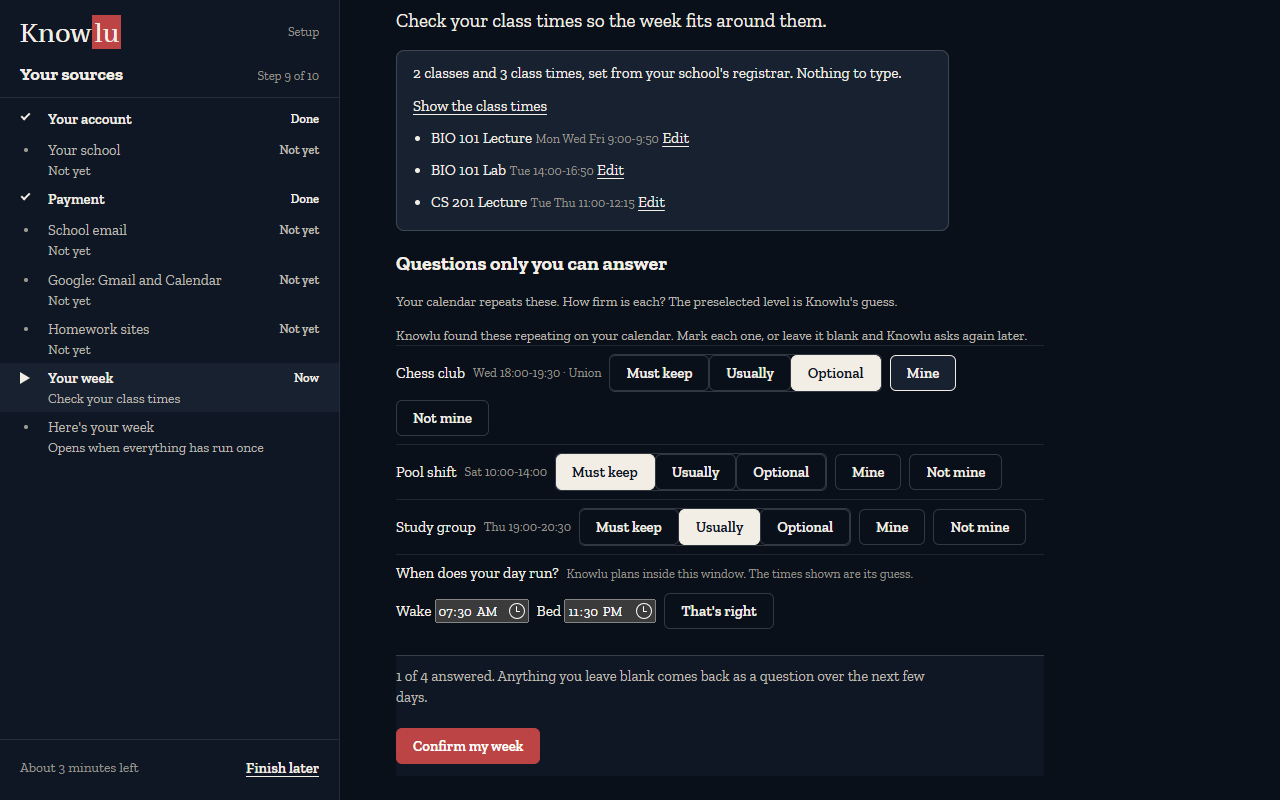
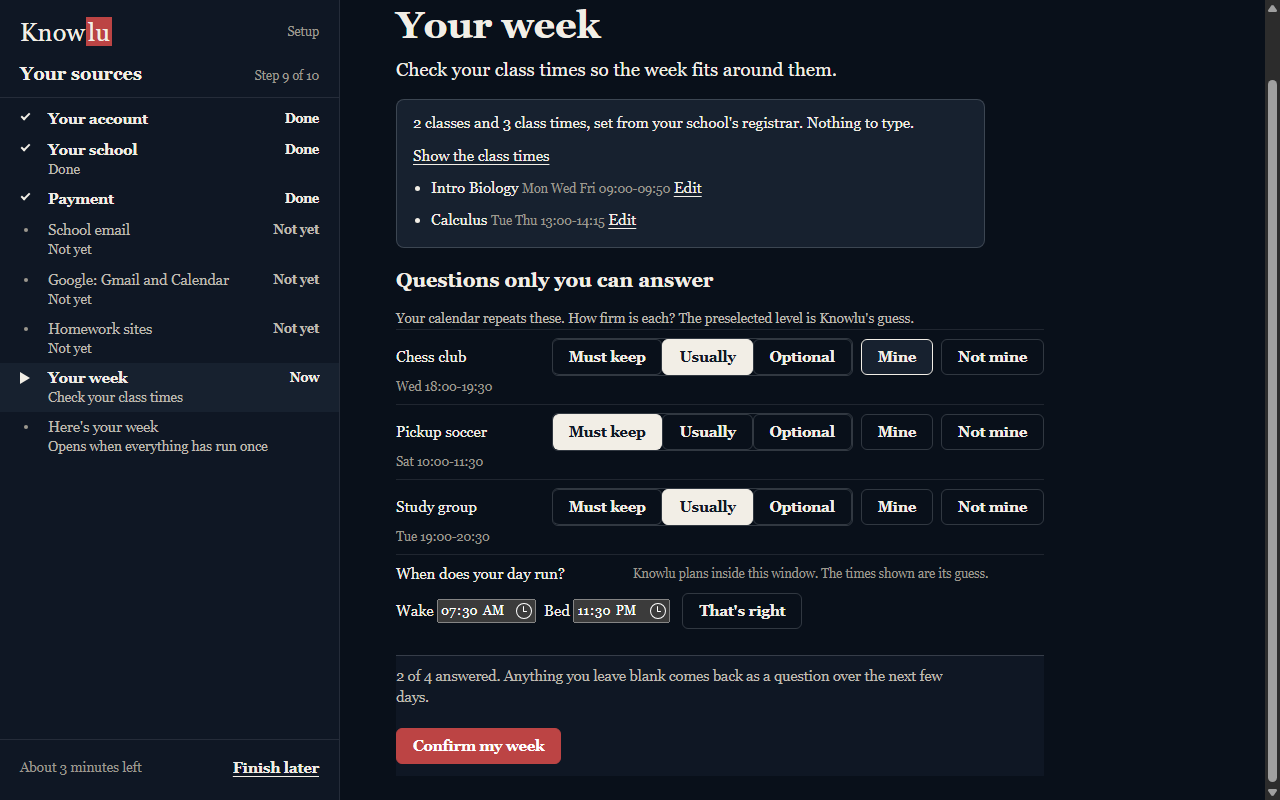
fix(o3 F11p3/F11p4): every day-window entry shown and sent, That's right sets, blank window not counted, firmness press is Mine, named controls, one intro, row layout; shots
Claude-Session: https://claude.ai/code/session_01EtveU7wxFVygY3Msga61qk

diff --git a/app/static/onboarding.js b/app/static/onboarding.js
@@ -630,7 +630,7 @@
   }
   function propHtml(p) {
     return '<div class="ob-prop" data-key="' + esc(p.source_uid) + '" data-answer="" data-level="' + esc(p.level || "soft") + '"><span class="a">' + esc(p.title) + '</span> <span class="su-dim">' + esc(p.when || "") + (p.where ? " · " + esc(p.where) : "") + '</span> ' +
-      firmnessHtml10(p.level) + ' <button class="b su-btn" type="button" data-act10="mine" aria-pressed="false">Mine</button> <button class="b su-btn" type="button" data-act10="not" aria-pressed="false">Not mine</button></div>';
+      '<span class="ob-ctl">' + firmnessHtml10(p.level, p.title) + ' <button class="b su-btn" type="button" data-act10="mine" aria-pressed="false">Mine</button> <button class="b su-btn" type="button" data-act10="not" aria-pressed="false">Not mine</button></span></div>';
   }
   // The pure helpers (F11p3): the summary line, the proposal split, the firmness control, the confirm object, the bar's count.
   function summaryLine10(st) {
@@ -642,28 +642,32 @@
     var ps = (r && r.proposals) || [];
     return { events: ps.filter(function (p) { return !p.window; }), window: ps.filter(function (p) { return p.window; })[0] || null };
   }
-  function firmnessHtml10(level) {
+  function firmnessHtml10(level, title) {
     var on = LEVELS10.some(function (l) { return l[0] === level; }) ? level : "soft";
-    return '<span class="ob-seg" role="group" aria-label="How firm">' + LEVELS10.map(function (l) {
+    return '<span class="ob-seg" role="group" aria-label="How firm is ' + esc(title || "") + '">' + LEVELS10.map(function (l) {
       return '<button class="b su-btn" type="button" data-level="' + l[0] + '" aria-pressed="' + (l[0] === on) + '">' + l[1] + '</button>';
     }).join("") + '</span>';
   }
   function windowFields10(p) {
-    var m = p && p.meets && p.meets[0];
-    return { start: (m && m.start) || "", end: (m && m.end) || "" };
+    var ms = (p && p.meets) || [], m = ms[0], f = { start: (m && m.start) || "", end: (m && m.end) || "" };
+    if (ms.length > 1) { f.entries = ms.map(function (x) { return { days: x.days, start: x.start || "", end: x.end || "" }; }); }
+    return f;
   }
-  // The `window` string for commitments_confirm, or null: unanswered or a blank time sends no key.
+  function winEntries10(win) { return win.entries || [{ start: win.start, end: win.end }]; }
+  function winSet10(win) { return !!win && winEntries10(win).every(function (e) { return e.start && e.end; }); }
+  // The `window` string for commitments_confirm, or null: unanswered or any blank time sends no key.
   function windowArg10(p, win) {
-    if (!win || !win.answered || !win.start || !win.end) { return null; }
-    var f = windowFields10(p);
-    if (p && p.meets && f.start === win.start && f.end === win.end) { return JSON.stringify(p.meets); }
-    var days = (p && p.meets && p.meets[0] && p.meets[0].days) || ["mon", "tue", "wed", "thu", "fri", "sat", "sun"];
-    return JSON.stringify([{ days: days, start: win.start, end: win.end }]);
+    if (!win || !win.answered || !winSet10(win)) { return null; }
+    var es = winEntries10(win), ms = (p && p.meets) || [];
+    if (!ms.length) { return JSON.stringify([{ days: ["mon", "tue", "wed", "thu", "fri", "sat", "sun"], start: es[0].start, end: es[0].end }]); }
+    var same = ms.every(function (m, i) { return !es[i] || (es[i].start === m.start && es[i].end === m.end); });
+    if (same) { return JSON.stringify(ms); }
+    return JSON.stringify(ms.map(function (m, i) { return es[i] ? { days: m.days, start: es[i].start, end: es[i].end } : m; }));
   }
   function confirmArg10(rows, proposal, win) {
     var mine = [], notMine = [];
     rows.forEach(function (r) {
-      if (r.answer === "mine") { mine.push({ source_uid: r.key, level: r.level }); } else if (r.answer === "not") { notMine.push(r.key); }
+      if (r.answer !== "not" && (r.answer === "mine" || r.picked)) { mine.push({ source_uid: r.key, level: r.level }); } else if (r.answer === "not") { notMine.push(r.key); }
     });
     var out = { mine: mine, not_mine: notMine }, w = windowArg10(proposal, win);
     if (w !== null) { out.window = w; }
@@ -671,30 +675,53 @@
   }
   // `win` is the day-window question (F11p4); null means it is not on screen, so it is not counted.
   function answeredCount10(rows, win) {
-    var n = rows.filter(function (r) { return r.answer === "mine" || r.answer === "not"; }).length;
-    return { n: n + (win && win.answered ? 1 : 0), m: rows.length + (win ? 1 : 0) };
+    var n = rows.filter(function (r) { return r.answer === "mine" || r.answer === "not" || r.picked; }).length;
+    return { n: n + (win && win.answered && winEntries10(win).every(function (e) { return e.start !== "" && e.end !== ""; }) ? 1 : 0), m: rows.length + (win ? 1 : 0) };
   }
   function confirmBarLine10(n, m) { return n + " of " + m + " answered. Anything you leave blank comes back as a question over the next few days."; }
   OB.summaryLine10 = summaryLine10; OB.splitProposals10 = splitProposals10; OB.firmnessHtml10 = firmnessHtml10;
   OB.confirmArg10 = confirmArg10; OB.windowFields10 = windowFields10; OB.windowArg10 = windowArg10; OB.answeredCount10 = answeredCount10; OB.confirmBarLine10 = confirmBarLine10;
   function rows10() {
     return Array.prototype.map.call(document.querySelectorAll("#ob-10-prop .ob-prop"), function (r) {
-      return { key: r.getAttribute("data-key"), answer: r.getAttribute("data-answer"), level: r.getAttribute("data-level") };
+      return { key: r.getAttribute("data-key"), answer: r.getAttribute("data-answer"), level: r.getAttribute("data-level"), picked: r.getAttribute("data-picked") === "1" };
     });
   }
   function paintBar10() {
     var el = EL("ob-10-count"), c = answeredCount10(rows10(), w10.win);
     if (el) { el.textContent = confirmBarLine10(c.n, c.m); }
   }
-  // The guess goes into the two time inputs until the student has touched them.
+  var DAYS10 = ["mon", "tue", "wed", "thu", "fri", "sat", "sun"];
+  function daysLabel10(ds) {
+    var ix = (ds || []).map(function (d) { return DAYS10.indexOf(d); }), cap = function (k) { return DAYS10[k].charAt(0).toUpperCase() + DAYS10[k].slice(1); };
+    var run = ix.length > 1 && ix.every(function (k, n) { return k >= 0 && (n === 0 || k === ix[n - 1] + 1); });
+    return run ? cap(ix[0]) + "–" + cap(ix[ix.length - 1]) : ix.filter(function (k) { return k >= 0; }).map(cap).join(", ");
+  }
+  function winPair10(i, head, e) {
+    return '<span class="ob-wpair" data-i="' + i + '">' + (head ? '<span class="su-dim">' + esc(head) + '</span> ' : '') +
+      '<label>Wake <input type="time" class="ob-wt" data-k="start" value="' + esc(e.start) + '"></label> <label>Bed <input type="time" class="ob-wt" data-k="end" value="' + esc(e.end) + '"></label></span>';
+  }
+  function syncWin10() {
+    var b = document.querySelector("#ob-10-win [data-act10=win]");
+    if (b) { b.disabled = !winSet10(w10.win); }
+  }
+  // The guess goes into the time inputs (one pair per entry) until the student has touched them.
   function fillWindow10() {
-    var a = EL("ob-10-wstart"), b = EL("ob-10-wend"), f = windowFields10(w10.proposal);
-    if (!a || !b || w10.win.answered) { return; }
-    a.value = w10.win.start = f.start; b.value = w10.win.end = f.end;
+    var host = EL("ob-10-wins"), f = windowFields10(w10.proposal);
+    if (!host || w10.win.answered) { return; }
+    var es = f.entries || [f];
+    host.innerHTML = es.map(function (e, i) { return winPair10(i, f.entries ? daysLabel10(e.days) : "", e); }).join(" ");
+    w10.win.start = f.start; w10.win.end = f.end;
+    if (f.entries) { w10.win.entries = es.map(function (e) { return { start: e.start, end: e.end }; }); } else { delete w10.win.entries; }
+    syncWin10();
   }
   function readWindow10() {
-    var a = EL("ob-10-wstart"), b = EL("ob-10-wend");
-    if (a && b) { w10.win.start = a.value; w10.win.end = b.value; }
+    var pairs = document.querySelectorAll("#ob-10-wins .ob-wpair"), es = Array.prototype.map.call(pairs, function (p) {
+      return { start: p.querySelector("[data-k=start]").value, end: p.querySelector("[data-k=end]").value };
+    });
+    if (!es.length) { return; }
+    w10.win.start = es[0].start; w10.win.end = es[0].end;
+    if (es.length > 1) { w10.win.entries = es; } else { delete w10.win.entries; }
+    syncWin10();
   }
   function askProposals(s) {
     if (!(s && s.proposals_ready) || w10.asked) { return; }
@@ -704,7 +731,7 @@
       if (!host) { return; }
       var sp = splitProposals10(r), ps = sp.events;
       w10.proposal = sp.window; fillWindow10();
-      host.innerHTML = ps.length ? '<p class="su-small">Knowlu found these repeating on your calendar. Mark each one, or leave it blank and Knowlu asks again later.</p>' + ps.map(propHtml).join("")
+      host.innerHTML = ps.length ? ps.map(propHtml).join("")
         : '<p class="ob-state">' + esc((r && r.error) || "Knowlu found nothing repeating on your calendar.") + '</p>';
       paintBar10();
     }).catch(function () {
@@ -731,6 +758,7 @@
     var lv = e.target.closest(".ob-seg button"), b = e.target.closest("[data-act10]");
     if (lv && EL("ob-step-10")) {
       lv.closest(".ob-prop").setAttribute("data-level", lv.getAttribute("data-level"));
+      lv.closest(".ob-prop").setAttribute("data-picked", "1"); paintBar10();
       lv.parentNode.querySelectorAll("button").forEach(function (x) { x.setAttribute("aria-pressed", String(x === lv)); });
       return;
     }
@@ -738,8 +766,8 @@
     if (b.getAttribute("data-act10") === "times") { var set = EL("ob-10-set"); set.hidden = !set.hidden; b.setAttribute("aria-expanded", String(!set.hidden)); return; }
     var act = b.getAttribute("data-act10"), row = b.closest(".ob-prop");
     if (act === "win") {
-      readWindow10(); w10.win.answered = !w10.win.answered;
-      b.setAttribute("aria-pressed", String(w10.win.answered)); paintBar10();
+      readWindow10(); w10.win.answered = true;
+      b.setAttribute("aria-pressed", "true"); paintBar10();
       return;
     }
     if (act === "confirm") { confirm10(); return; }
@@ -765,8 +793,8 @@
       '<h2 class="ob-h2">Questions only you can answer</h2><p class="su-small">Your calendar repeats these. How firm is each? The preselected level is Knowlu&#39;s guess.</p>' +
       '<div id="ob-10-prop"><p class="ob-state" id="ob-10-wait">Knowlu is reading your calendars…</p></div>' +
       '<div class="ob-prop ob-win" id="ob-10-win"><span class="a">When does your day run?</span> <span class="su-dim">Knowlu plans inside this window. The times shown are its guess.</span> ' +
-      '<label>Wake <input type="time" id="ob-10-wstart" aria-label="Day starts"></label> <label>Bed <input type="time" id="ob-10-wend" aria-label="Day ends"></label> ' +
-      '<button class="b su-btn" type="button" data-act10="win" aria-pressed="false">That&#39;s right</button></div>' +
+      '<span id="ob-10-wins">' + winPair10(0, "", { start: "", end: "" }) + '</span> ' +
+      '<button class="b su-btn" type="button" data-act10="win" aria-pressed="false" disabled>That&#39;s right</button></div>' +
       '<div class="ob-10-bar" id="ob-10-bar"><p class="ob-state" id="ob-10-count"></p>' +
       '<p class="ob-state ob-failed" id="ob-10-line" role="alert" hidden></p>' +
       '<div class="su-actions"><button class="b pri y su-btn" type="button" id="ob-10-confirm" data-act10="confirm">Confirm my week</button>' +

diff --git a/app/static/onboarding.css b/app/static/onboarding.css
@@ -59,3 +59,11 @@
 .ob-seg button[aria-pressed="true"] { background: var(--su-ink); color: var(--su-board); }
 .ob-10-bar { position: sticky; bottom: 0; margin-top: 18px; padding: 10px 0 12px; background: var(--su-board); border-top: 1px solid var(--su-rule-2); }
 .ob-10-bar .ob-state { margin: 0 0 6px; }
+.ob-prop > .a, .ob-prop > .su-dim { flex: 1 1 auto; min-width: 0; text-align: left; }
+.ob-prop:not(.ob-win) > .a { order: 0; }
+.ob-prop:not(.ob-win) > .su-dim { order: 2; flex: 1 0 100%; margin-top: -6px; }
+.ob-prop:not(.ob-win) > .ob-ctl { order: 1; }
+.ob-prop .ob-ctl { display: inline-flex; flex-wrap: nowrap; flex: none; gap: 8px; margin-left: auto; align-items: center; }
+.ob-win { display: flex; flex-wrap: wrap; gap: 8px 12px; align-items: center; }
+.ob-win .ob-wpair { display: inline-flex; flex-wrap: wrap; gap: 8px; align-items: center; }
+.ob-win button:disabled { opacity: .5; }
